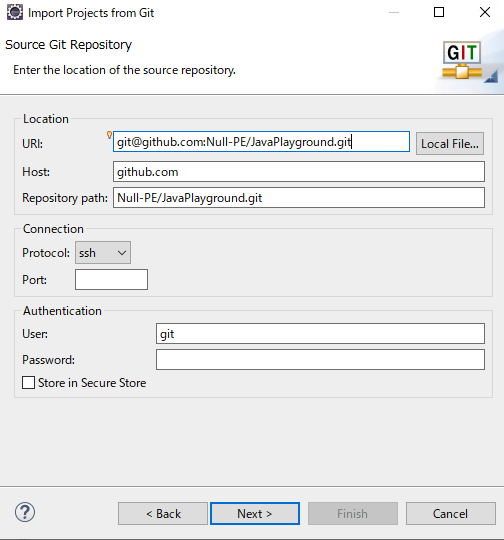
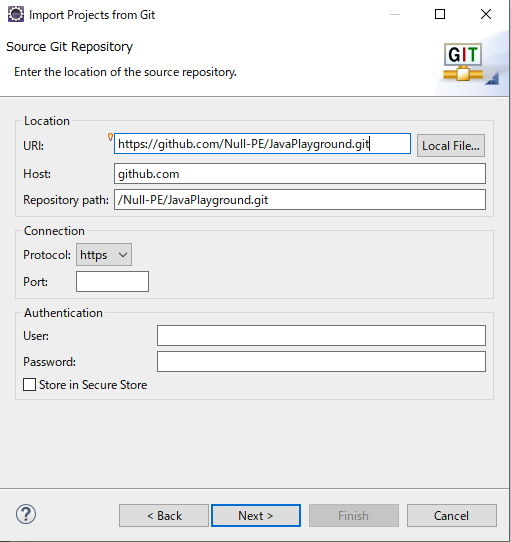
update link

diff --git a/README.md b/README.md
@@ -9,7 +9,7 @@
 ![Import](img/2.png)
 4. [Clone URI] を選択して、[Next]  
 ![Import](img/3.png)
-5. [URI] に `git@github.com:Null-PE/JavaPlayground.git` を貼り付けて、[Next]   
+5. [URI] に `https://github.com/Null-PE/JavaPlayground.git` を貼り付けて、[Next]   
 ![Import](img/4.png)
 6. [Directory] にソースコードの置く場所を設定し、[Next] -> [Next] -> [Finish]　  
 ![Import](img/5.png)
